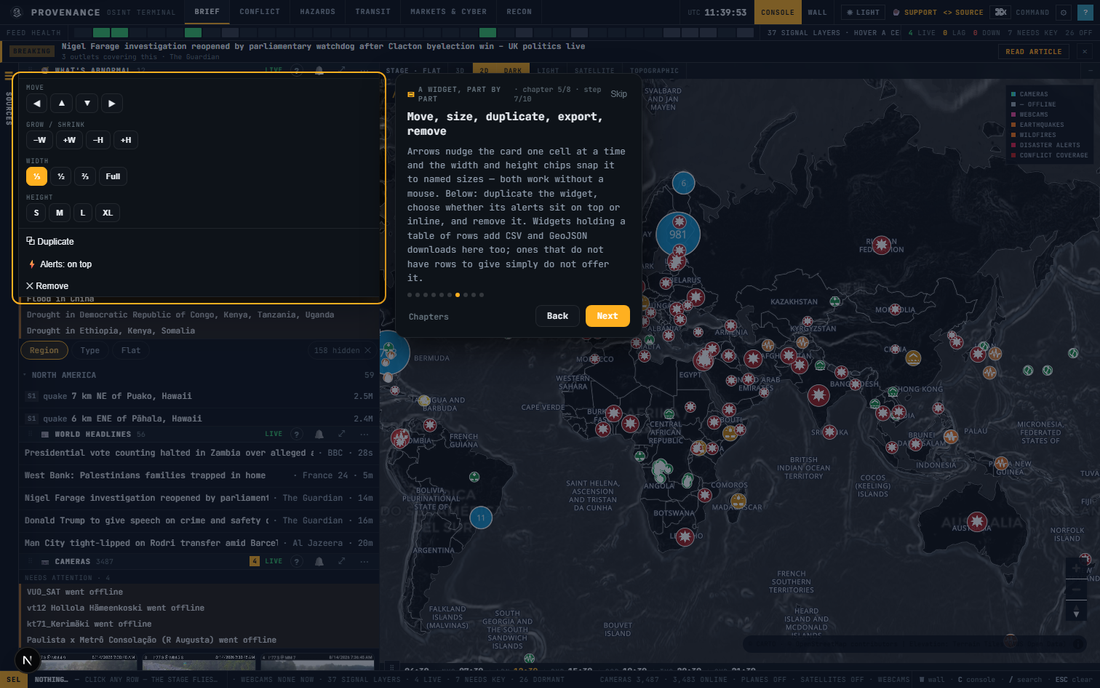
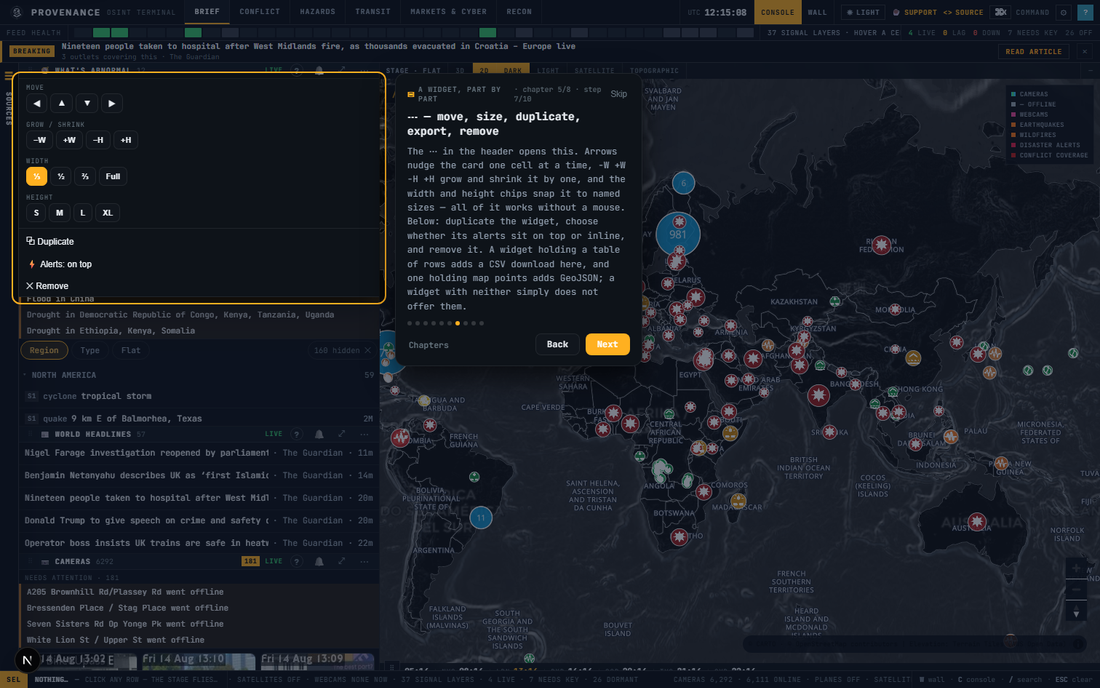
Tour: close the gaps a third, adversarial verification pass found
A fresh reviewer re-audited the fixes against the code rather than the
commit message, and confirmed eleven of fourteen were genuine. It also
caught one structural bug and a set of smaller ones.

THE STRUCTURAL BUG — a step that vanished from the running tour

The breaking-banner step was written, committed, tested, and NOT IN THE
RUN. buildRun keeps a non-framing step only if its target exists when the
run is built; the banner mounts when a headline arrives, which is usually
after. So the walk had no banner step while the banner sat above all 58
steps with two live buttons on it. That is precisely the silent-drop
failure this whole rewrite exists to remove, reintroduced by the fix for
the opposite problem.

`reactive: true` now marks a control that comes and goes — the banner, the
pin navigator — and those steps survive a build that cannot see them yet,
degrading to a plain card rather than disappearing. It is deliberately NOT
a general escape hatch: a control the viewport does not render must still
drop, or a phone gets told about the keyboard-shortcut strip again.

A MERGED STEP LOST ITS BUTTON

Merging "here is ⋯" into "here is what is in ⋯" left ⋯ named nowhere in
user-facing copy — the visitor was shown the menu and never told which
button opens it. Same regression class the merge was meant to avoid.

FACTUAL CORRECTIONS

* DORMANT was defined as "the layer is off". freshChip derives it from
  `capability.state === "locked"` — it means NEEDS A KEY, and the tour said
[…]

diff --git a/lib/console/tour.ts b/lib/console/tour.ts
@@ -32,7 +32,6 @@
 
 import { BRAND } from "@/lib/brand";
 import { SIGNALS } from "@/lib/signals/registry";
-import { CAMERA_REGIONS } from "@/lib/icons/svg";
 
 /**
  * Counts are DERIVED, never typed. A tour whose sixth chapter is about not being
@@ -40,14 +39,18 @@ import { CAMERA_REGIONS } from "@/lib/icons/svg";
  * thirty-seven — which is exactly what the first draft did, because the number
  * came from a stale note rather than the registry.
  *
- * Both imports are already in the console's client bundle (SourceCatalog pulls
- * `signalsByGroup` from the same registry and `CAMERA_REGIONS` from the same
- * module), so this costs nothing. Do not import the camera SOURCES registry here
- * for the same figure — that one drags eleven adapters and zod into the browser.
+ * The registry is already in the console's client bundle (SourceCatalog pulls
+ * `signalsByGroup` from it), so this costs nothing. Do NOT import the camera
+ * `SOURCES` registry here for the equivalent figure — that one drags a dozen
+ * adapters and zod into the browser.
  */
 const SIGNAL_COUNT = SIGNALS.length;
-const FEED_COUNT = CAMERA_REGIONS.length;
-const SOURCE_COUNT = SIGNAL_COUNT + FEED_COUNT;
+
+// There is deliberately NO camera-feed constant here. `SOURCES` holds twelve
+// adapters and `CAMERA_REGIONS` eleven entries — the São Paulo feed has no region
+// — so the app disagrees with itself, and a tour that picks a side is asserting a
+// number it cannot support. The rail prints its own live count; the copy says
+// "every open road-camera network we carry" and leaves the arithmetic alone.
 
 /**
  * A conditional click. `ensure` opens a surface, `close` puts it back — each a
@@ -75,6 +78,21 @@ export interface TourStep {
   body: string;
   /** Preferred placement relative to the target (the overlay clamps to the viewport). */
   placement?: "top" | "bottom" | "left" | "right" | "center";
+  /**
+   * Keep this step even when its target is nowhere on the page.
+   *
+   * For a control that comes and goes on its own — the breaking banner arrives
+   * when a headline does, the pin navigator when you have dropped a pin. The run
+   * is built once, so a reactive control that has not fired yet would drop its
+   * step and never come back: a verification walk found the banner step missing
+   * from all 58 steps while the banner itself sat above every one of them, which
+   * is the same silent-drop failure this rewrite exists to remove.
+   *
+   * This is NOT an escape hatch for a control the viewport does not render — the
+   * 390px case must still drop, or a phone gets told about a keyboard-shortcut
+   * strip it does not have. Reactive means "not on screen YET", not "not here".
+   */
+  reactive?: boolean;
   /** Opened before the step is shown, so the target exists to be spotlit. */
   setup?: TourAction[];
   /** Extra settle time in ms after setup, for a surface that animates open. */
@@ -129,6 +147,10 @@ const SHUT_PALETTE: TourAction = { kind: "close", want: ".tn-palette-root", clic
 const OPEN_SETTINGS: TourAction = { kind: "ensure", want: ".tn-settings", click: ".tn-settings-trigger" };
 const SHUT_SETTINGS: TourAction = { kind: "close", want: ".tn-settings", click: ".tn-settings-close" };
 
+// The profile popover toggles from the avatar, so the same control opens and closes it.
+const OPEN_PROFILE: TourAction = { kind: "ensure", want: ".tn-profile-menu", click: ".tn-profile-avatar" };
+const SHUT_PROFILE: TourAction = { kind: "close", want: ".tn-profile-menu", click: ".tn-profile-avatar" };
+
 // ─────────────────────────────────────────────────────────────────────────────
 // The walkthrough.
 // ─────────────────────────────────────────────────────────────────────────────
@@ -151,7 +173,7 @@ const AUTHORED_CHAPTERS: TourChapter[] = [
         target: "",
         title: "Start with the shape of it",
         body:
-          `${BRAND.name} is one screen in five horizontal bands. Learn the bands and everything else has an address. There is no login and no payment; most sources are keyless, and the few that need a free API key are labelled as such rather than left looking broken.`,
+          `${BRAND.name} is one screen in four horizontal bands. Learn the bands and everything else has an address. There is no login and no payment; most sources are keyless, and the few that need a free API key are labelled as such rather than left looking broken.`,
         placement: "center",
       },
       {
@@ -173,9 +195,10 @@ const AUTHORED_CHAPTERS: TourChapter[] = [
       {
         id: "orientation-banner",
         target: [".tn-alert-body", ".tn-alert"],
+        reactive: true, // arrives with a headline, so it may not be up when the run is built
         title: "The breaking strip",
         body:
-          "When a headline or a large quake arrives, it takes this band across the top. Read article opens the source in a new tab; the ✕ dismisses it. It appears only when there is something to say, so the band is not always there.",
+          "When a headline or a large earthquake arrives it takes a band across the top, above everything else. Its button changes with the kind: Read article opens a news source in a new tab, View on map flies the map to a quake. The ✕ dismisses it. It is only there when there is something to say.",
         placement: "bottom",
       },
       {
@@ -197,17 +220,17 @@ const AUTHORED_CHAPTERS: TourChapter[] = [
       {
         id: "orientation-footer",
         target: [".tnx-sel", ".tnx-footer"],
-        title: "Band 4 — the selection bar",
+        title: "Band 4 — the footer",
         body:
-          "The answer to \"what did I just click?\". Selecting a pin on the map or a row in a widget writes its name and coordinates here — the map flies, but only this bar says what it flew to. Esc clears it.",
+          "Three things share the bottom band. On the left, SEL is the answer to \"what did I just click?\" — selecting a pin or a widget row writes its name and coordinates here, because the map flies but only this bar says what it flew to. Esc clears it.",
         placement: "top",
       },
       {
         id: "orientation-ticker",
         target: [".tnx-ticker", ".tnx-keys"],
-        title: "Band 5 — ticker and keys",
+        title: "Band 4 also — ticker and keys",
         body:
-          "The footer also runs a live ticker of what is arriving, and lists the four single-key shortcuts: W for wall, C for console, / for search, Esc to clear.",
+          "In the middle of that same band, a live ticker of what is arriving. On the right, the four single-key shortcuts: W for wall, C for console, / for search, Esc to clear.",
         placement: "top",
       },
     ],
@@ -225,7 +248,7 @@ const AUTHORED_CHAPTERS: TourChapter[] = [
         target: "",
         title: "Everything on the map is clickable",
         body:
-          "Before the controls, the thing worth knowing: click any pin and a dossier slides in from the right with that item's detail, its source and its attribution. Click a camera and you get its picture — a live video stream where the agency provides one, otherwise a still that refreshes. Numbered bubbles are clusters; click one to zoom into what it is holding. Whatever you pick is named in the bar along the bottom, and Esc clears it.",
+          "Before the controls, the thing worth knowing: click any pin and a dossier slides in from the right with that item's detail, its source and its attribution, plus a ⬇ Export for that one record and an ✕ to close. Click a camera and you get its picture — a live video stream where the agency provides one, otherwise a still that refreshes. Numbered bubbles are clusters; click one to zoom into what it is holding. Whatever you pick is named in the bar along the bottom, and Esc clears it.",
         placement: "center",
       },
       {
@@ -271,6 +294,7 @@ const AUTHORED_CHAPTERS: TourChapter[] = [
       {
         id: "map-pins",
         target: [".tn-pinnav", ".tnx-stage-foot"],
+        reactive: true, // the pin navigator exists only once a pin has been dropped
         title: "Pins, zoom and world clocks",
         body:
           "Searching drops a pin, and the pin navigator steps between them, flies back to any one, and clears them. The + and − in the bottom-right corner zoom without a scroll wheel, and the compass under them resets the tilt. The bar along the bottom of the stage carries local time in several cities, so an event has a human hour attached.",
@@ -366,7 +390,7 @@ const AUTHORED_CHAPTERS: TourChapter[] = [
         target: [".tn-cw-fresh", ".tn-cw-head"],
         title: "The freshness chip",
         body:
-          "How old this widget's data actually is. CONNECTING… while it waits, LIVE once it has answered, then an age as it drifts, DOWN when it stops, DORMANT when the layer is off, LIVE STREAM for continuous video. \"LIVE · 7/8\" means only seven of the eight feeds behind it answered. A feed that quietly freezes says so here instead of continuing to look healthy.",
+          "How old this widget's data actually is. CONNECTING… while it waits, LIVE once it has answered, then an age as it drifts, then STALE, DOWN when it stops, and DORMANT when the layer needs an API key this deployment does not hold, so nothing was ever fetched. \"LIVE · 7/8\" means only seven of the eight feeds behind it answered. A feed that quietly freezes says so here instead of continuing to look healthy.",
         placement: "bottom",
       },
       {
@@ -396,16 +420,16 @@ const AUTHORED_CHAPTERS: TourChapter[] = [
         target: ".tn-cw-expand",
         title: "⤢ — expand onto the stage",
         body:
-          "Throws this widget full-size onto the centre stage, over the map, for when a table needs the room. The map chrome steps aside while it is there.",
+          "Throws this widget full-size onto the centre stage, over the map, for when a table needs the room — often with a richer view than the small card had. The map chrome steps aside while it is there, and \"← Back to map\" in its top-left puts the map back.",
         placement: "bottom",
         setup: [SHUT_BELL],
       },
       {
         id: "widgets-menu-pop",
         target: [".tn-cw-menu-pop", ".tn-cw-menu"],
-        title: "Move, size, duplicate, export, remove",
+        title: "⋯ — move, size, duplicate, export, remove",
         body:
-          "Arrows nudge the card one cell at a time and the width and height chips snap it to named sizes — both work without a mouse. Below: duplicate the widget, choose whether its alerts sit on top or inline, and remove it. Widgets holding a table of rows add CSV and GeoJSON downloads here too; ones that do not have rows to give simply do not offer it.",
+          "The ⋯ in the header opens this. Arrows nudge the card one cell at a time, −W +W −H +H grow and shrink it by one, and the width and height chips snap it to named sizes — all of it works without a mouse. Below: duplicate the widget, choose whether its alerts sit on top or inline, and remove it. A widget holding a table of rows adds a CSV download here, and one holding map points adds GeoJSON; a widget with neither simply does not offer them.",
         placement: "left",
         setup: [OPEN_MENU],
         settleMs: 120,
@@ -480,7 +504,7 @@ const AUTHORED_CHAPTERS: TourChapter[] = [
         target: ".tn-cat-search",
         title: "Search the catalogue",
         body:
-          `${SOURCE_COUNT} sources is more than anyone scrolls. Type a word — quake, cyber, camera, cable — and the whole rail filters to matching layers with their groups already expanded.`,
+          "There are more sources here than anyone scrolls. Type a word — quake, cyber, camera, cable — and the whole rail filters to matching layers with their groups already expanded.",
         placement: "right",
         setup: [OPEN_RAIL],
         settleMs: 220,
@@ -517,7 +541,7 @@ const AUTHORED_CHAPTERS: TourChapter[] = [
         target: [".tn-widget-toggle", ".tn-layer-row"],
         title: "＋ — any source becomes a widget",
         body:
-          "This is the shortcut worth knowing. ＋ docks that feed onto your workspace as its own live tile; ▦ means it is already there. The counter at the top of the rail tracks how many you have open.",
+          "This is the shortcut worth knowing. ＋ docks that feed onto your workspace as its own live tile; ▦ means it is already there. Each signal GROUP heading has one too, which docks a single roll-up tile for the whole theme instead of one per layer. The counter at the top of the rail tracks how many you have open.",
         placement: "right",
         setup: [OPEN_RAIL],
       },
@@ -582,7 +606,7 @@ const AUTHORED_CHAPTERS: TourChapter[] = [
         target: ".tn-coverage-open",
         title: "Coverage · Markets · Saved",
         body:
-          "Three panels at the foot of the rail, each closing on its own ✕. Coverage is the honest account of what we do and do not have, per source. Markets is the economic board. Saved is your watchlist — its \"Save current view\" button bookmarks wherever the map is pointing right now, and each saved place gets a row that flies you back to it.",
+          "Three panels at the foot of the rail, each closing on its own ✕. Camera coverage is the honest per-feed account of how many cameras each agency is giving us and how many are answering. Markets is the economic board. Saved is your watchlist — \"Save current view\" bookmarks wherever the map is pointing, each saved place gets a row that flies you back to it, and each row has an ✕ to drop it.",
         placement: "right",
         setup: [OPEN_RAIL],
       },
@@ -671,7 +695,7 @@ const AUTHORED_CHAPTERS: TourChapter[] = [
         target: [".tn-palette-root", ".tn-palette-trigger"],
         title: "⌘K — one box for the whole app",
         body:
-          "Command-K on a Mac, Ctrl-K everywhere else, or the COMMAND button in the header. Type to switch board, add any widget, toggle a map layer, change basemap, fly to any place on Earth by name, dive straight into a live camera, change language or theme — or replay this tour. Arrows move, Enter runs, Esc closes.",
+          "Command-K on a Mac, Ctrl-K everywhere else, or the COMMAND button in the header. Grouped by what it does: switch board, add any widget, jump to an open widget, toggle a map layer, change basemap, choose what the stage shows, apply a themed scenario, fly to any place on Earth by name, dive straight into a live camera, change language or theme — and replay this tour. Arrows move, Enter runs, Esc closes.",
         placement: "center",
         setup: [OPEN_PALETTE],
         settleMs: 200,
@@ -703,7 +727,7 @@ const AUTHORED_CHAPTERS: TourChapter[] = [
     title: "Settings & finishing up",
     summary: "Theme, language, alert channels and your profile",
     icon: "⚙",
-    cleanup: [SHUT_SETTINGS],
+    cleanup: [SHUT_PROFILE, SHUT_SETTINGS],
     steps: [
       {
         id: "settings-trigger",
@@ -717,19 +741,20 @@ const AUTHORED_CHAPTERS: TourChapter[] = [
         target: [".tn-settings", ".tn-settings-trigger"],
         title: "Theme, language, boards, sharing, alerts",
         body:
-          "Scroll it — there is more below the fold than above. Appearance and Language; Load a board; Share, which copies a link rebuilding your current view for whoever you send it to; then Notifications, which holds a master switch that silences every armed widget at once, a test-message button, the Telegram and Discord credentials, and the list of rules you have armed. Credentials are stored in this browser and sent nowhere else.",
+          "Scroll it — there is more below the fold than above. Appearance and Language; Load a board; Share, which copies a link rebuilding your current view for whoever you send it to; a Telegram section with its own send-a-test button; and Notifications, holding a master switch that silences every armed widget at once, the Discord webhook, and the list of rules you have armed. Credentials are stored in this browser and sent nowhere else.",
         placement: "left",
         setup: [OPEN_SETTINGS],
         settleMs: 200,
       },
       {
         id: "settings-profile",
-        target: [".tn-profile-avatar", ".tnx-hdr-profile"],
+        target: [".tn-profile-menu", ".tn-profile-avatar", ".tnx-hdr-profile"],
         title: "Your profile",
         body:
-          "Set a display name for this browser, and replay this tour. The Sign in button is a placeholder for accounts that do not exist yet — it opens a form that cannot be submitted. Nothing is uploaded: your boards, pins, watchlist and alert credentials all live in this browser only.",
+          "Set a display name for this browser, and replay this tour from here — 🧭 Take the tour is the second way in, alongside ⌘K. The Sign in button is a placeholder for accounts that do not exist yet: it opens a form that cannot be submitted. Nothing is uploaded — your boards, pins, watchlist and alert credentials all live in this browser only.",
         placement: "bottom",
-        setup: [SHUT_SETTINGS],
+        setup: [SHUT_SETTINGS, OPEN_PROFILE],
+        settleMs: 140,
       },
       {
         id: "settings-done",
@@ -845,6 +870,8 @@ export function buildRun(
       steps: chapter.steps.filter(
         (s) =>
           isFramingStep(s) ||
+          // A control that has not appeared YET is not a control that is absent.
+          s.reactive === true ||
           // A step that OPENS its own surface cannot be judged by what is on
           // screen right now — its target does not exist until setup has run.
           // Only an `ensure` earns that exemption: a `close`-only setup (several

diff --git a/tests/unit/tour.test.ts b/tests/unit/tour.test.ts
@@ -167,6 +167,7 @@ const CONSOLE_CONTROLS: { control: string; via: string }[] = [
   { control: "⌘K command trigger", via: ".tn-palette-trigger" },
   { control: "⚙ settings trigger", via: ".tn-settings-trigger" },
   { control: "profile avatar", via: ".tn-profile-avatar" },
+  { control: "profile popover: name, Sign in, Take the tour", via: ".tn-profile-menu" },
 
   // Feed health strip
   // Two entries, not one: the cells are a readout AND a toggle. An independent
@@ -244,9 +245,9 @@ test("every interactive control in the console is explained by some tour step", 
 test("the coverage manifest is not padded with selectors the tour never uses", () => {
   // Guards the inverse failure: a manifest that agrees with the tour because both
   // were edited to agree, rather than because the tour covers the product.
-  expect(CONSOLE_CONTROLS.length).toBeGreaterThanOrEqual(53);
+  expect(CONSOLE_CONTROLS.length).toBeGreaterThanOrEqual(54);
   const vias = new Set(CONSOLE_CONTROLS.map((c) => c.via));
-  expect(vias.size).toBeGreaterThanOrEqual(44);
+  expect(vias.size).toBeGreaterThanOrEqual(45);
 });
 
 /* ── Pure helpers ──────────────────────────────────────────────────────── */

diff --git a/components/shell/TourOverlay.tsx b/components/shell/TourOverlay.tsx
@@ -330,7 +330,13 @@ export default function TourOverlay() {
           verify-tour.mjs has to keep a hard-coded list of framing-step titles —
           which goes stale the first time one is reworded, and then reports a
           healthy tour as broken. Exactly the rot this rewrite exists to remove. */}
-      <div className="tn-tour-card" ref={cardRef} tabIndex={-1} data-framing={isFramingStep(flat.step) ? "true" : "false"}
+      {/* A reactive step with nothing to ring is expected, not broken: the banner
+          and the pin navigator are genuinely absent until something happens. They
+          are marked framing so the verification walk does not report a healthy run
+          as a miss — the cost being that a reactive step CAN hide a dead selector,
+          which is why `reactive` is restricted to controls that come and go. */}
+      <div className="tn-tour-card" ref={cardRef} tabIndex={-1}
+        data-framing={isFramingStep(flat.step) || (flat.step.reactive === true && !box) ? "true" : "false"}
         style={pos ? { left: pos.left, top: pos.top, visibility: "visible" } : { visibility: "hidden" }}>
         <div className="tn-tour-meta">
           <span className="tn-tour-count">
